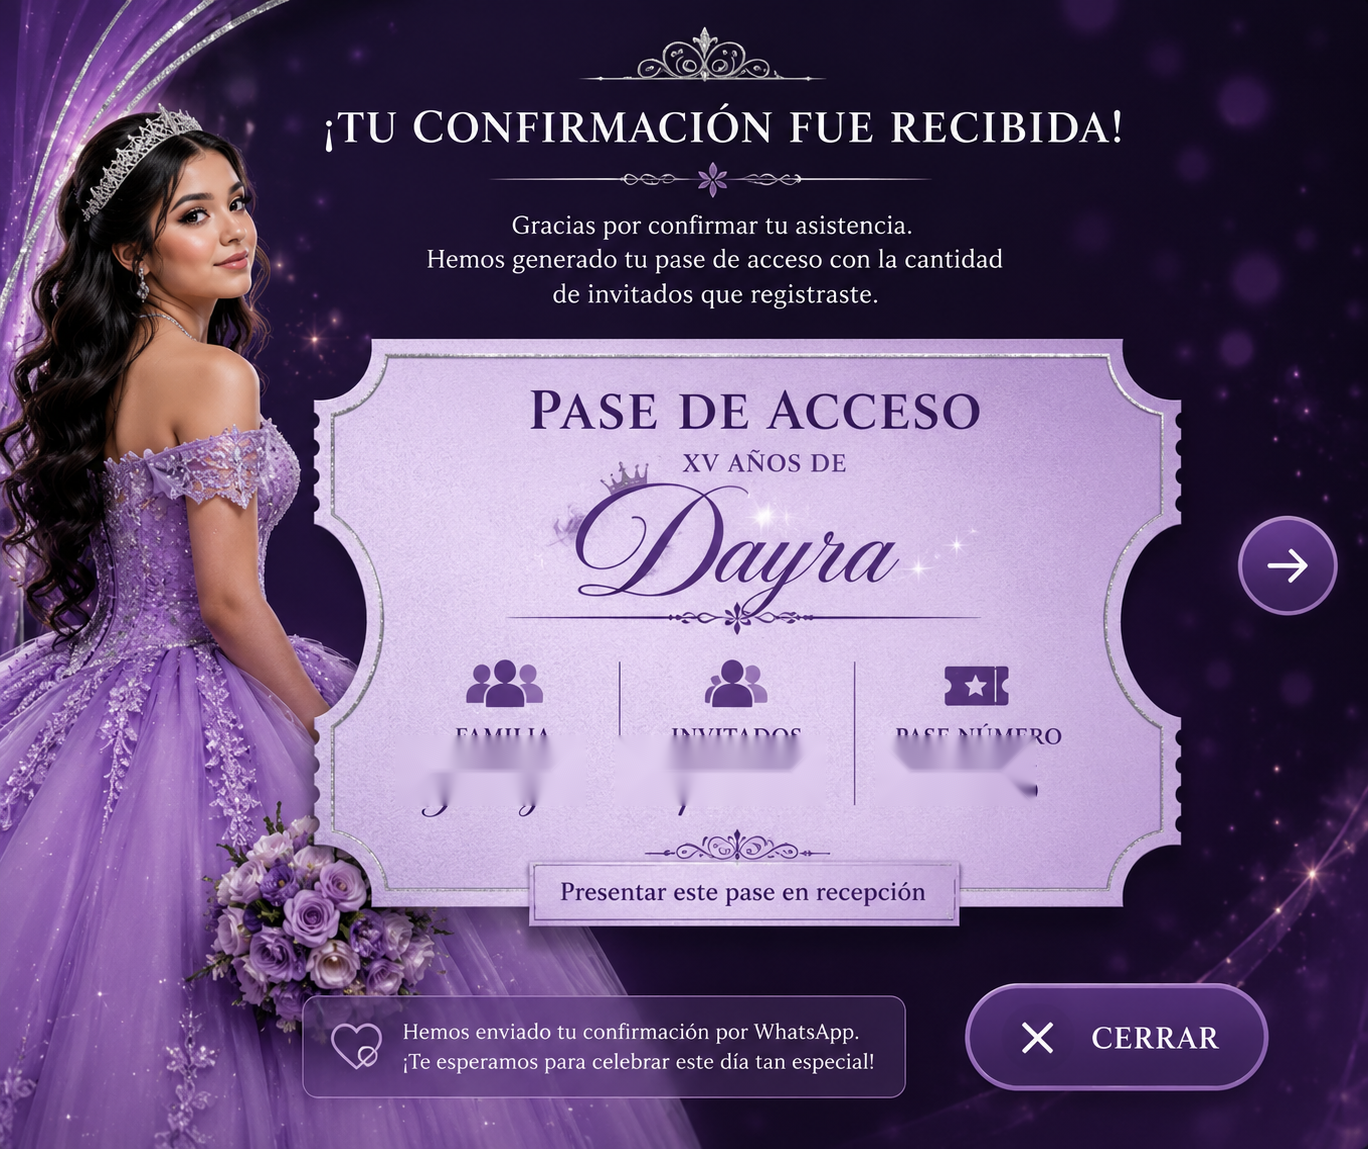
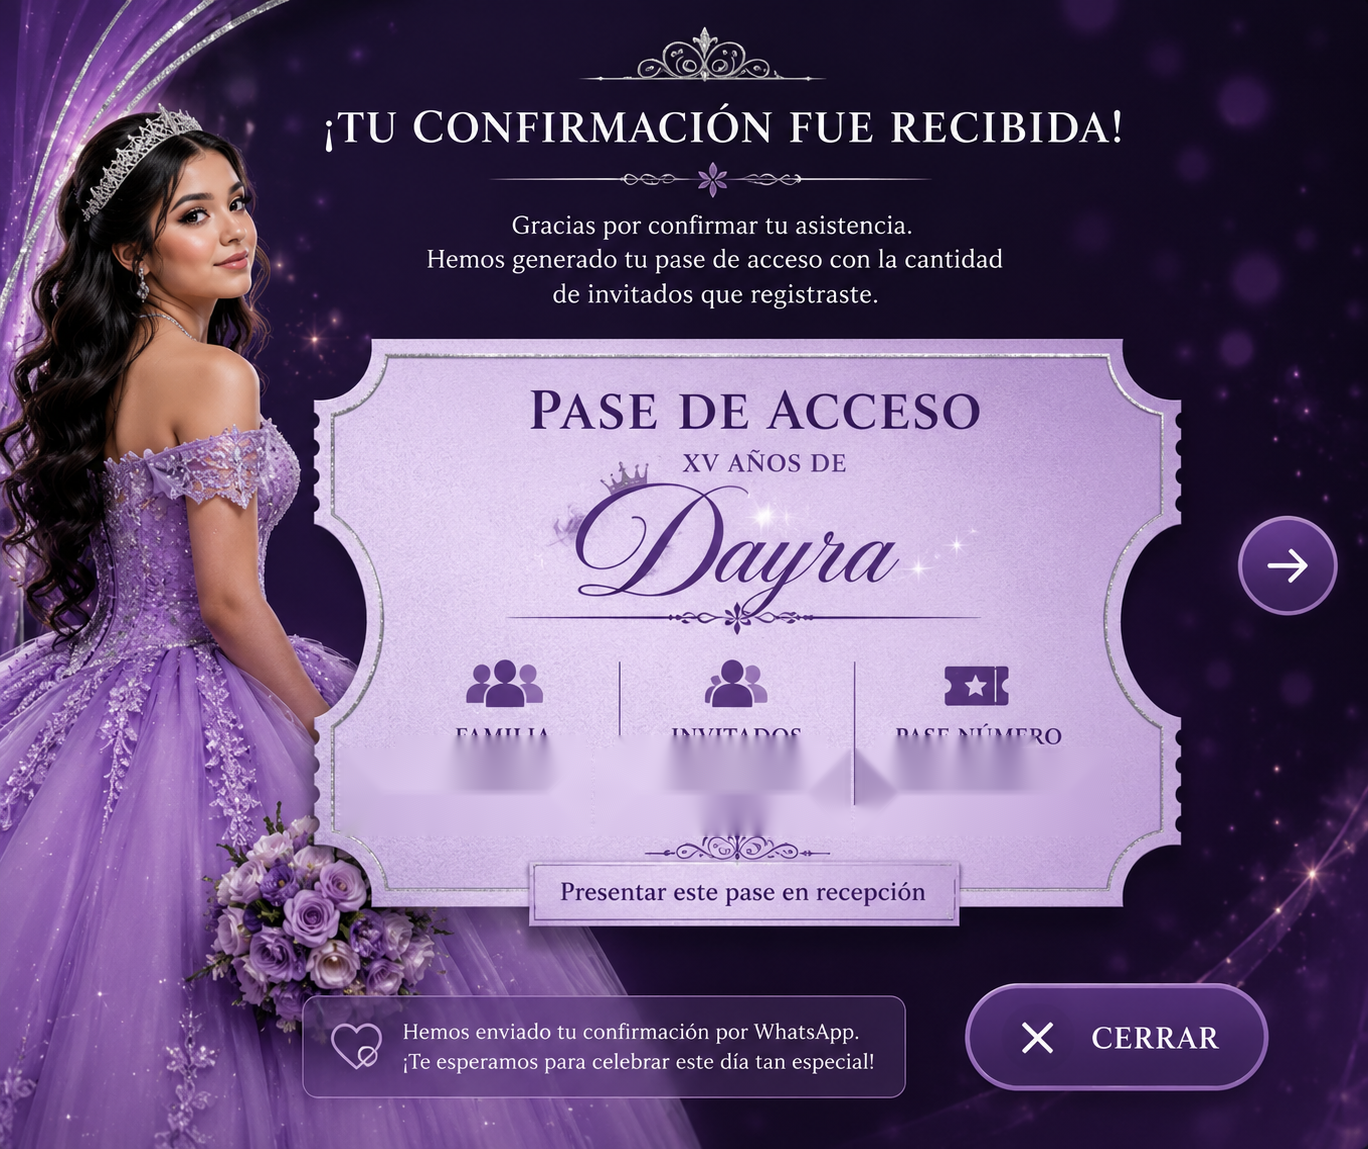
Add files via upload

Changed region(s): [[0.4912, 0.6397, 0.7675, 0.7311], [0.307, 0.6701, 0.3991, 0.7006]]

diff --git a/index.html b/index.html
@@ -287,18 +287,38 @@ button.nav:active{
 </style>
 
 <style id="dynamic-pass-style">
-#slide9{position:fixed!important;inset:0!important;width:100vw!important;height:100dvh!important;display:none!important;align-items:center!important;justify-content:center!important;overflow:hidden!important;background:#180d27!important}
+#slide9{
+ position:fixed!important;inset:0!important;width:100vw!important;height:100dvh!important;
+ display:none!important;align-items:center!important;justify-content:center!important;
+ overflow:hidden!important;background:#180d27!important;
+}
 #slide9.active{display:flex!important}
-#passCard{position:relative!important;height:100dvh!important;width:min(66.6666667dvh,100vw)!important;aspect-ratio:2/3!important;flex:0 0 auto!important}
-#passCard>img{width:100%!important;height:100%!important;object-fit:fill!important;display:block!important}
-.passValue{position:absolute!important;z-index:30!important;color:#3f1d73!important;font-family:Georgia,serif!important;font-style:italic!important;font-weight:700!important;text-align:center!important;background:transparent!important;padding:0!important;box-sizing:border-box!important;white-space:nowrap!important}
-#passFamily{left:28%!important;top:64%!important;width:18%!important;font-size:clamp(12px,2vw,20px)!important}
-#passGuests{left:46%!important;top:64%!important;width:18%!important;font-size:clamp(12px,2vw,20px)!important}
-#passNumber{left:65%!important;top:64%!important;width:18%!important;font-size:clamp(12px,2vw,20px)!important}
-#passSave,#passSend,#passClose{position:absolute!important;z-index:30!important;bottom:4%!important;height:6.5%!important;border-radius:25px!important;border:2px solid #eee!important;background:linear-gradient(180deg,#7133a4,#4d187d)!important;color:#fff!important;font-family:Georgia,serif!important;font-weight:700!important;cursor:pointer!important}
-#passSave{left:5%!important;width:27%!important;font-size:12px!important}
-
-#passClose{right:5%!important;width:20%!important;font-size:12px!important}
+#passCard{
+ position:relative!important;width:min(66.6666667dvh,100vw)!important;height:100dvh!important;
+ aspect-ratio:2/3!important;flex:0 0 auto!important;
+}
+#passCard>img{width:100%!important;height:100%!important;display:block!important;object-fit:fill!important}
+.passValue{
+ position:absolute!important;z-index:30!important;
+ color:#3f1d73!important;font-family:Georgia,serif!important;
+ font-style:italic!important;font-weight:700!important;
+ text-align:center!important;white-space:nowrap!important;
+ background:transparent!important;border:0!important;padding:0!important;
+ line-height:1.05!important;
+}
+#passFamily{left:25.5%!important;top:64.9%!important;width:18.5%!important;font-size:clamp(12px,2.2vw,20px)!important}
+#passGuests{left:43.5%!important;top:64.9%!important;width:20%!important;font-size:clamp(12px,2.2vw,20px)!important}
+#passNumber{left:64%!important;top:64.9%!important;width:20%!important;font-size:clamp(12px,2.2vw,20px)!important}
+#passSave,#passClose{
+ position:absolute!important;z-index:40!important;bottom:3.5%!important;
+ height:6.5%!important;border-radius:28px!important;
+ border:2px solid #eee!important;
+ background:linear-gradient(180deg,#7133a4,#4d187d)!important;
+ color:#fff!important;font-family:Georgia,serif!important;font-weight:700!important;
+ cursor:pointer!important;
+}
+#passSave{left:8%!important;width:29%!important;font-size:12px!important}
+#passClose{right:8%!important;width:22%!important;font-size:13px!important}
 </style>
 </head>
 <body>
